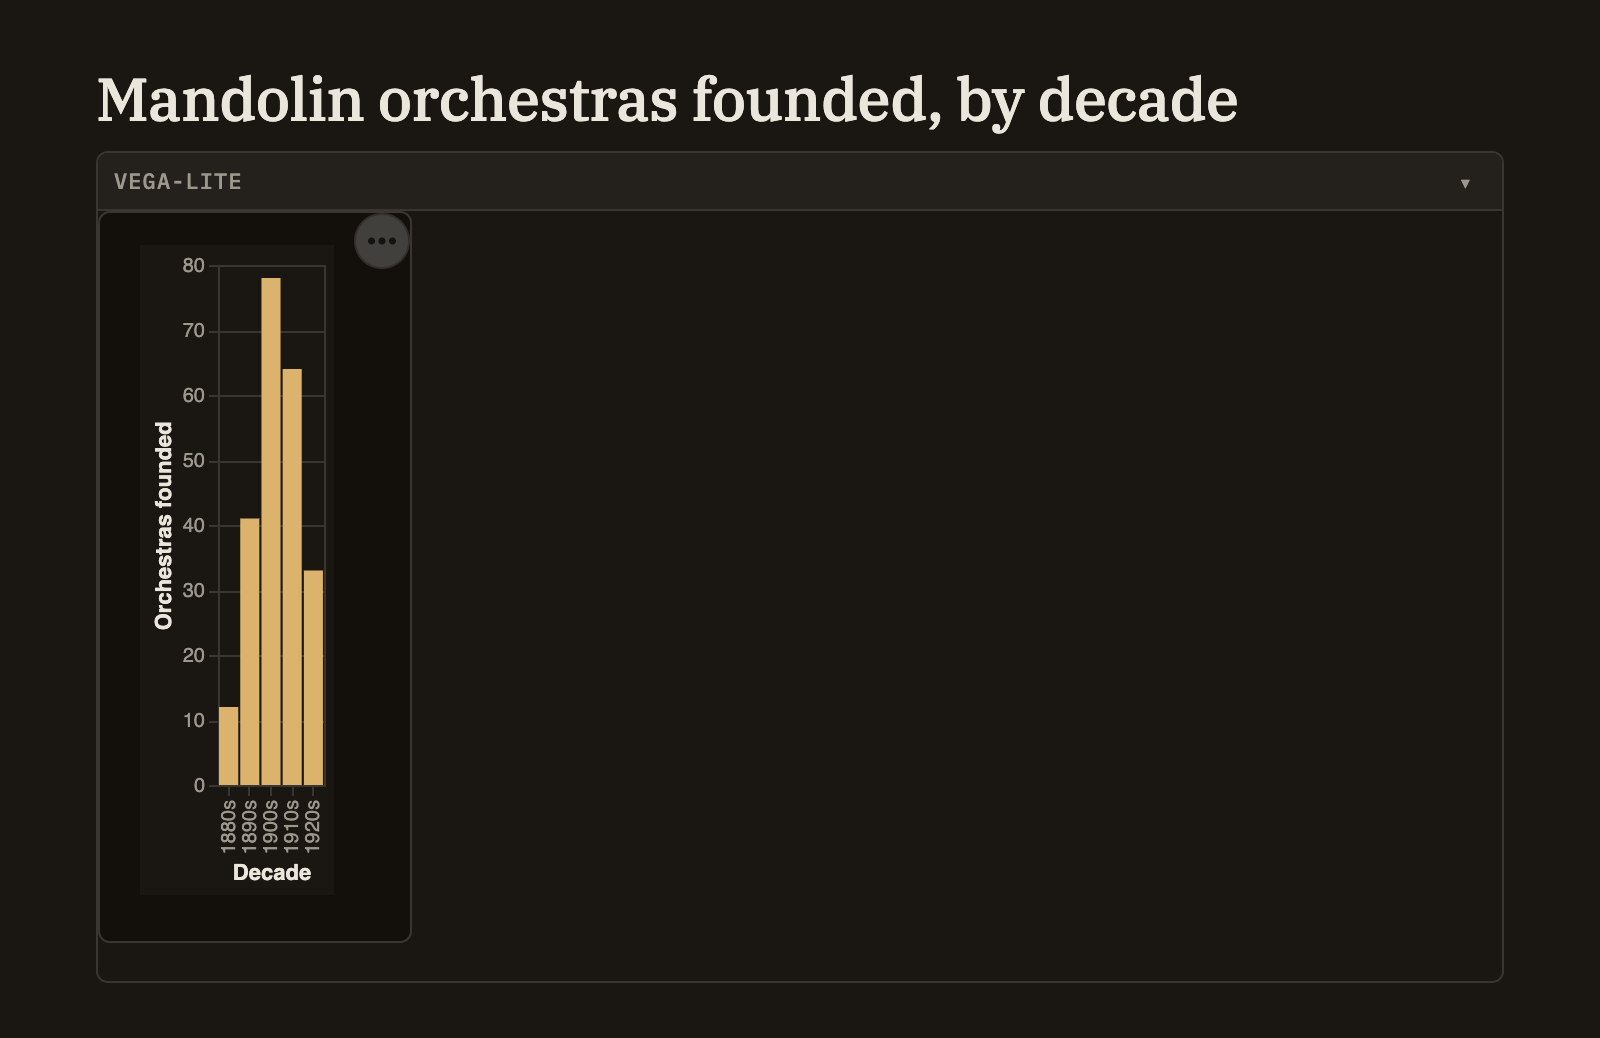
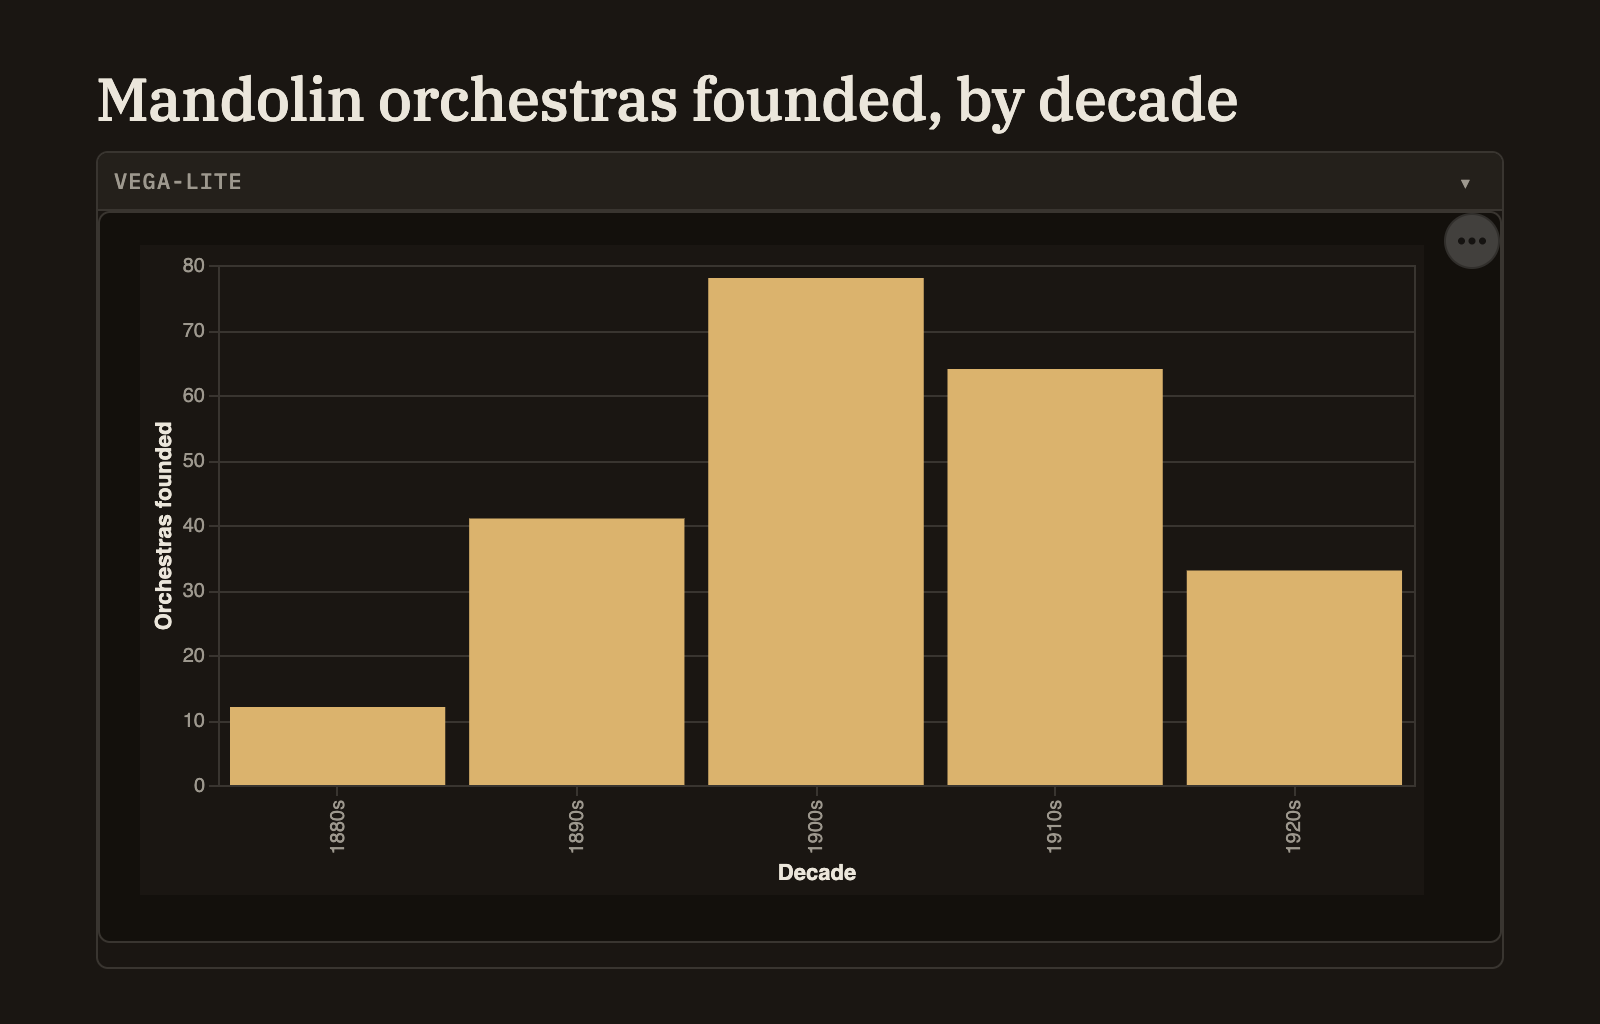
Deploy website from 71a4bf5

diff --git a/docs/notes-charts.html b/docs/notes-charts.html
@@ -121,10 +121,9 @@
     <h2 id="rendering">How it looks</h2>
     <p>The chart draws right in the note, sized to fit the column so it never spills off the side. It's fully interactive: hover a bar or point for a tooltip, and open the "⋯" menu in the corner to save the chart as an image. Colors follow your current theme automatically, so a chart looks at home whether you're in a light or dark look — though any color you set yourself is always kept.</p>
 
-    <div class="shot wide">
-      <div class="icon">📊</div>
-      <div class="d">A note with a bar chart drawn inline, sized to the width of the column. A tooltip shows the value of the bar under the pointer, and the "⋯" menu for saving the chart sits in the corner.</div>
-    </div>
+    <figure class="shot-img">
+      <img src="img/notes-charts.png" alt="A note with a bar chart drawn inline, sized to the width of the column. A tooltip shows the value of the bar under the pointer, and the &quot;⋯&quot; menu for saving the chart sits in the corner." loading="lazy" />
+    </figure>
 
     <h2 id="data">Live data</h2>
     <p>The simple approach is to list your numbers right in the chart, as above. But a chart can also pull its data from elsewhere in your project so it updates as that data changes. In place of listing values, point the chart at one of these:</p>

diff --git a/docs/navigation-back-forward.html b/docs/navigation-back-forward.html
@@ -125,7 +125,7 @@
       </div>
       <div class="row">
         <div class="k">A <a href="navigation-search.html">search</a> result</div>
-        <div class="v"><b>Not remembered.</b> Jumping straight to a search match doesn't add a step, so Back skips past it.</div>
+        <div class="v"><b>Remembered.</b> Jumping to a search match records a step, so Back returns you to where you were before the search.</div>
       </div>
       <div class="row">
         <div class="k">Back and forward themselves</div>
